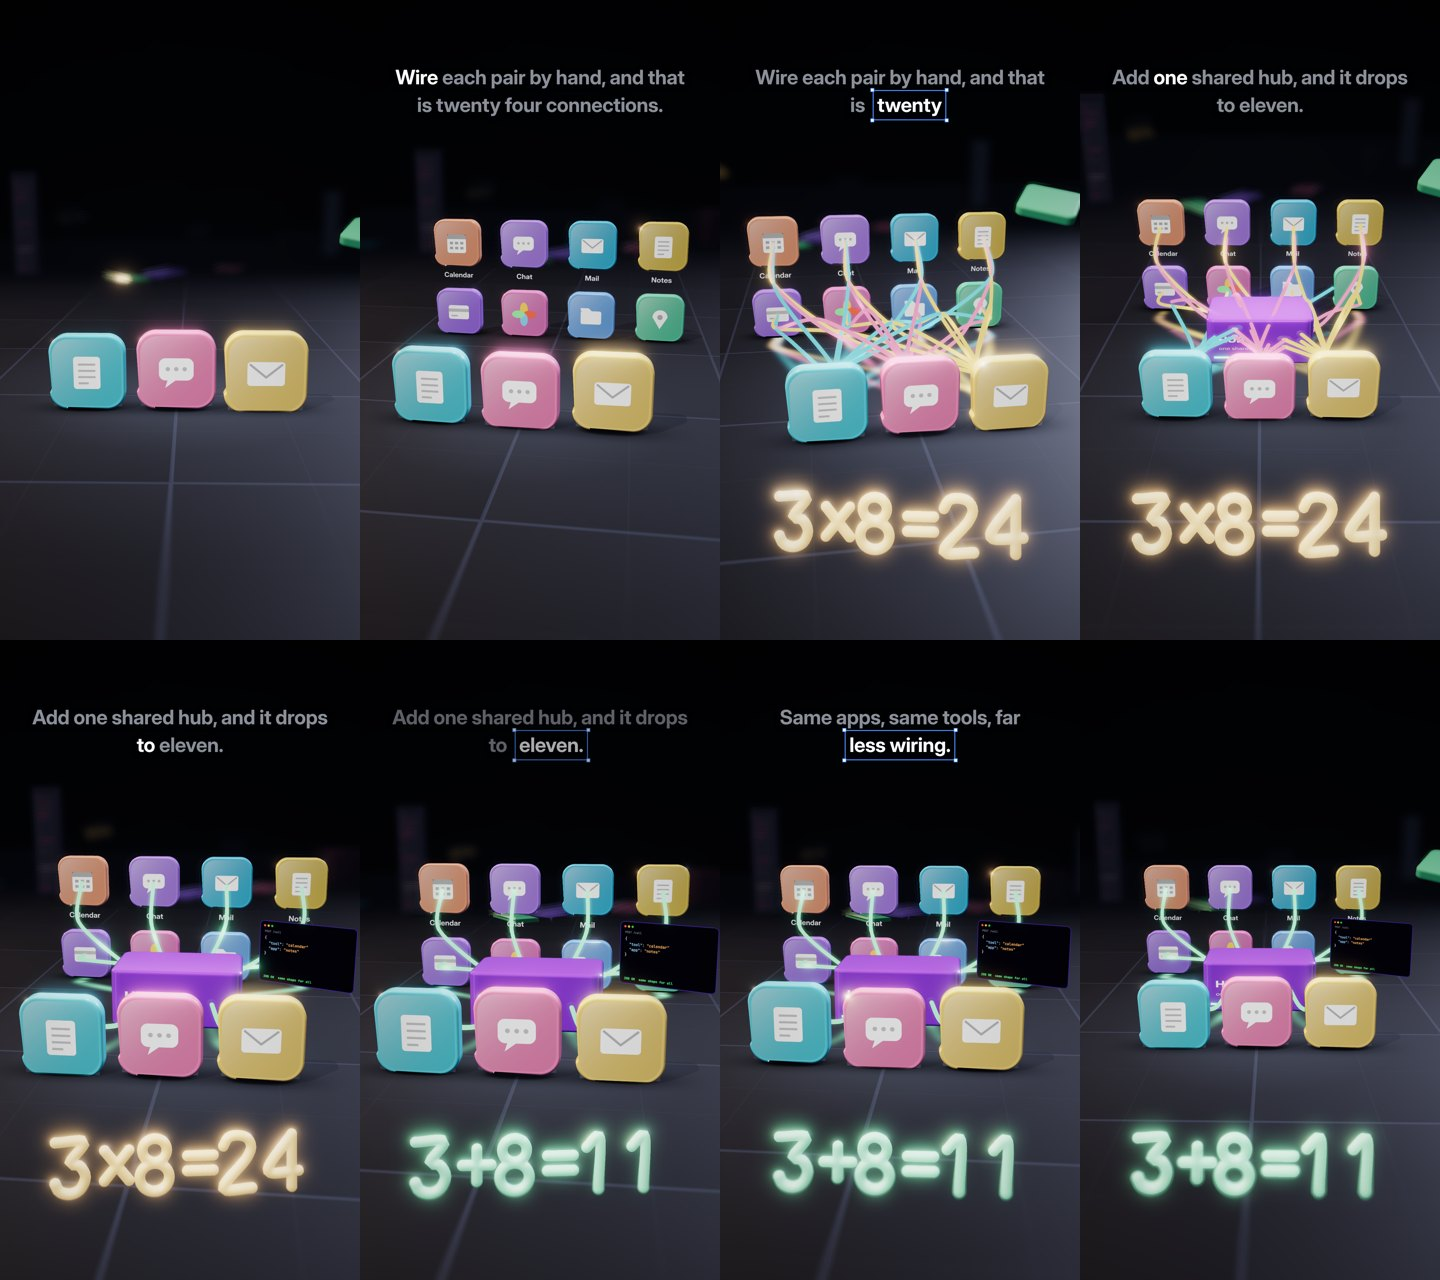
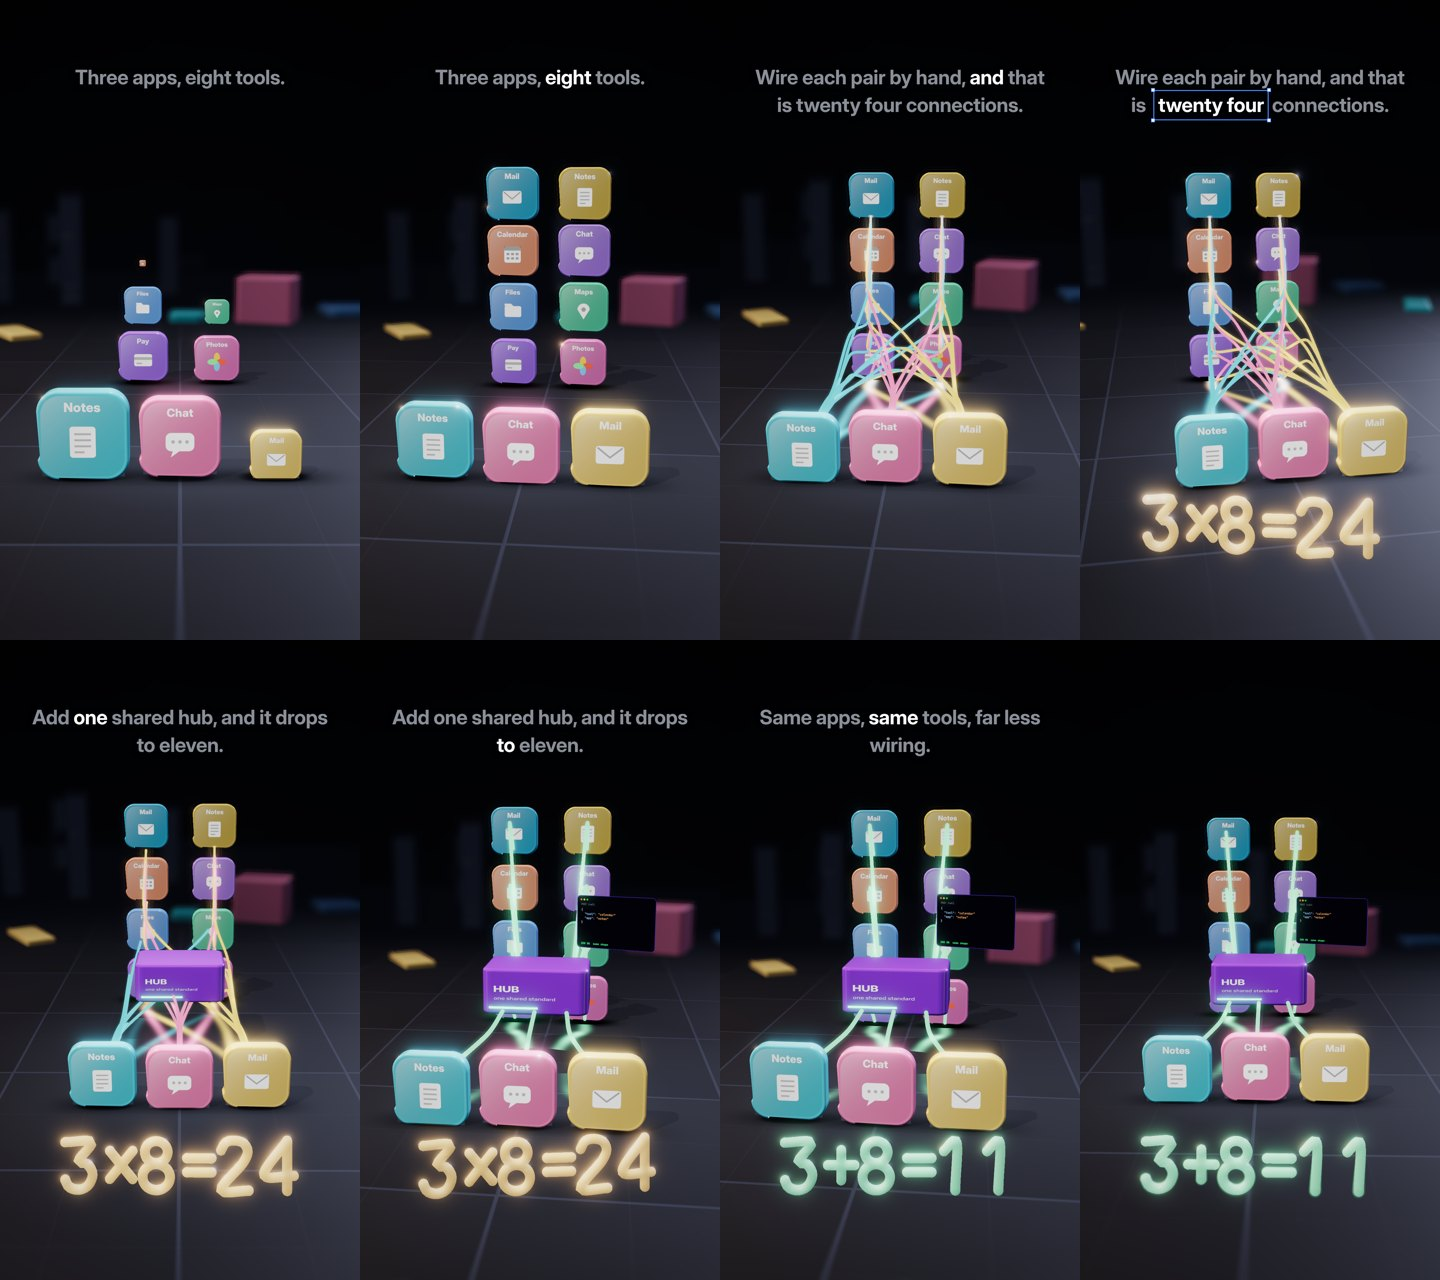
3D kit sample: fuller opening, tall tool wall, readable hub and labels, crisper numbers
Claude-Session: https://claude.ai/code/session_01AYvWRikJYVoUTZmSA7P3bc

diff --git a/techkit/scenes/gold3d-sample.html b/techkit/scenes/gold3d-sample.html
@@ -21,46 +21,47 @@ const eback = (u) => { u = clamp(u); const c = 1.6; return 1 + (c + 1) * Math.po
 const V = (x, y, z) => new THREE.Vector3(x, y, z);
 const S = W3D.stage(THREE, { W, H });
 S.dof.aperture = 2.4; S.dof.focusRange = 7; S.dof.maxR = 20;
-const world = W3D.world(S, { seed: 21, props: 36, radius: [10, 36], heroZone: 13, maxZ: -10, palette: [0x6b3cff, 0x16b8d6, 0xff4f8a, 0xffb62e, 0x2f7bff, 0x22c55e] });
+const world = W3D.world(S, { seed: 21, props: 36, radius: [14, 40], heroZone: 17, maxZ: -14, palette: [0x6b3cff, 0x16b8d6, 0xff4f8a, 0xffb62e, 0x2f7bff, 0x22c55e] });
 const L = W3D.lib;
 
-// ---------- CHANGE: the three apps (front row), the eight tools (back wall), the hub ----------
+// ---------- CHANGE: the three apps (front row), the eight tools (a tall wall, 2 x 4: the portrait frame is tall), the hub (floating above the apps so it is never hidden) ----------
 const APPS = [{ n: 'Notes', c: 0x16b8d6, g: 'notes' }, { n: 'Chat', c: 0xff4f8a, g: 'chat' }, { n: 'Mail', c: 0xffb62e, g: 'mail' }];
 const TOOLS = [['Pay', 0x6b3cff, 'pay'], ['Photos', 0xe0449a, 'photos'], ['Files', 0x2f7bff, 'files'], ['Maps', 0x1fb86a, 'maps'], ['Calendar', 0xff6a3c, 'calendar'], ['Chat', 0x7a4cff, 'chat'], ['Mail', 0x1294d6, 'mail'], ['Notes', 0xd9a21b, 'notes']];
-const apps = APPS.map((a, i) => { const g = L.appTile(THREE, { size: 1.8, color: a.c, glyph: L.appGlyphs[a.g], name: a.n }); g.position.set((i - 1) * 2.1, 0, 1); S.scene.add(g); return g; });
-const tools = TOOLS.map((t, i) => { const g = L.appTile(THREE, { size: 1.6, color: t[1], glyph: L.appGlyphs[t[2]], name: t[0] }); g.position.set((i % 4 - 1.5) * 2.3, Math.floor(i / 4) * 2.4, -6.5); S.scene.add(g); return g; });
-const hub = L.productBlock(THREE, { w: 3.4, d: 2.2, h: 1.5, color: 0x4a14c8, name: 'HUB', sub: 'one shared standard', led: true }); hub.position.set(0, 0, -3); S.scene.add(hub);
-const card = L.codeCard(THREE, { w: 2.4, h: 1.55, title: 'POST /call', fs: 40, lines: [[['{', '#c7c9d1']], [['  "tool"', '#9ad1ff'], [': ', '#c7c9d1'], ['"calendar"', '#ffb86b']], [['  "app"', '#9ad1ff'], [': ', '#c7c9d1'], ['"notes"', '#ffb86b']], [['}', '#c7c9d1']]], footer: '200 OK  same shape for all' }); S.scene.add(card);
+const AX = (i) => (i - 1) * 2.05, TX = (j) => (j % 2 - .5) * 2.5, TY = (j) => .1 + Math.floor(j / 2) * 1.95, WALL_Z = -6.5, HUB_P = V(0, 1.7, -2.4);
+const apps = APPS.map((a, i) => { const g = L.appTile(THREE, { size: 1.8, color: a.c, glyph: L.appGlyphs[a.g], name: a.n, label: 'inside' }); g.position.set(AX(i), 0, 2); S.scene.add(g); return g; });
+const tools = TOOLS.map((t, i) => { const g = L.appTile(THREE, { size: 1.6, color: t[1], glyph: L.appGlyphs[t[2]], name: t[0], label: 'inside' }); g.position.set(TX(i), TY(i), WALL_Z); S.scene.add(g); return g; });
+const hub = L.productBlock(THREE, { w: 3.0, d: 2.0, h: 1.3, color: 0x4a14c8, name: 'HUB', sub: 'one shared standard', led: true }); hub.position.copy(HUB_P); S.scene.add(hub);
+const card = L.codeCard(THREE, { w: 2.2, h: 1.45, title: 'POST /call', fs: 38, lines: [[['{', '#c7c9d1']], [['  "tool"', '#9ad1ff'], [': ', '#c7c9d1'], ['"calendar"', '#ffb86b']], [['  "app"', '#9ad1ff'], [': ', '#c7c9d1'], ['"notes"', '#ffb86b']], [['}', '#c7c9d1']]], footer: '200 OK  same shape' }); S.scene.add(card);
 
-// ---------- cables: 24 separate tubes, one colour per app; then 3 + 8 through the hub ----------
+// ---------- cables: 24 separate tubes, one colour per app; then 3 + 8 through the hub (they end on the tile's bottom edge, so no label is ever covered) ----------
 const tubes = [], hubTubes = [];
-APPS.forEach((a, i) => TOOLS.forEach((t, j) => { const ax = (i - 1) * 2.1, tx = (j % 4 - 1.5) * 2.3, ty = Math.floor(j / 4) * 2.4 + .8, lift = .5 + .22 * ((i * 3 + j) % 5);
-  const pts = [[ax, .9, .6], [ax * .9, .3 + lift * .5, -1], [lerp(ax, tx, .6), .3 + lift, -3.4], [tx, ty * .6 + .2, -5.2], [tx, ty, -6.25]];
-  tubes.push({ c: W3D.cable(S, pts, { color: a.c, radius: .055, glow: 1.5, segments: 90, light: 0, haloSize: 2.6, halo: .2, floorGlow: .8, floorStrength: .5, pulse: { speed: .3 + .02 * j, width: .05 } }), ph: (i * 8 + j) * .137, k: i * 8 + j }); }));
-APPS.forEach((a, i) => { const ax = (i - 1) * 2.1; hubTubes.push({ c: W3D.cable(S, [[ax, .9, .6], [ax * .6, .45, -.8], [(i - 1) * .9, .7, -2.05]], { color: 0x42ff8c, radius: .06, glow: 1.6, halo: .22, haloSize: 2.6, segments: 70, light: 0, floorGlow: .9, floorStrength: .55, pulse: { speed: .5, width: .06 } }), ph: i * .3, k: i }); });
-TOOLS.forEach((t, j) => { const tx = (j % 4 - 1.5) * 2.3, ty = Math.floor(j / 4) * 2.4 + .8; hubTubes.push({ c: W3D.cable(S, [[(j % 4 - 1.5) * .6, .9, -3.9], [(j % 4 - 1.5) * 1.2, .9, -4.8], [tx, ty * .5 + .4, -5.7], [tx, ty, -6.25]], { color: 0x42ff8c, radius: .06, glow: 1.6, halo: .22, haloSize: 2.6, segments: 70, light: 0, floorGlow: .9, floorStrength: .55, pulse: { speed: .5, width: .06 } }), ph: j * .11, k: 3 + j }); });
+APPS.forEach((a, i) => TOOLS.forEach((t, j) => { const lift = .4 + .2 * ((i * 3 + j) % 5), tx = TX(j), ty = TY(j);
+  const pts = [[AX(i), .9, 1.5], [AX(i) * .85, .9 + lift * .5, -.6], [lerp(AX(i), tx, .55), .7 + lift + ty * .15, -3.2], [tx, ty * .55 + .3, -5.2], [tx, ty + .1, -WALL_Z * 0 + WALL_Z + .3]];
+  tubes.push({ c: W3D.cable(S, pts, { color: a.c, radius: .045, glow: 1.5, segments: 90, light: 0, haloSize: 2.6, halo: .2, floorGlow: .8, floorStrength: .5, pulse: { speed: .3 + .02 * j, width: .05 } }), ph: (i * 8 + j) * .137, k: i * 8 + j }); }));
+APPS.forEach((a, i) => { hubTubes.push({ c: W3D.cable(S, [[AX(i), .9, 1.5], [AX(i) * .55, 1.5, -.1], [(i - 1) * .9, HUB_P.y + .1, HUB_P.z + 1.0]], { color: 0x42ff8c, radius: .06, glow: 1.6, halo: .22, haloSize: 2.6, segments: 70, light: 0, floorGlow: .9, floorStrength: .55, pulse: { speed: .5, width: .06 } }), ph: i * .3, k: i }); });
+TOOLS.forEach((t, j) => { const tx = TX(j), ty = TY(j); hubTubes.push({ c: W3D.cable(S, [[(j % 2 - .5) * 1.0, HUB_P.y + .1, HUB_P.z - 1.0], [(j % 2 - .5) * 1.6, HUB_P.y - .2, -4.6], [tx, ty + .9, WALL_Z + 1.1], [tx, ty + .1, WALL_Z + .3]], { color: 0x42ff8c, radius: .06, glow: 1.6, halo: .22, haloSize: 2.6, segments: 70, light: 0, floorGlow: .9, floorStrength: .55, pulse: { speed: .5, width: .06 } }), ph: j * .11, k: 3 + j }); });
 
 // ---------- numbers as 3D figures ----------
-const fig24 = L.figure(THREE, '3x8=24', { height: .72, color: 0xffa23a, radius: .1 }), fig11 = L.figure(THREE, '3+8=11', { height: .72, color: 0x42ff8c, radius: .1 });
+const fig24 = L.figure(THREE, '3x8=24', { height: .72, color: 0xffa23a, radius: .1, emissive: .12 }), fig11 = L.figure(THREE, '3+8=11', { height: .72, color: 0x42ff8c, radius: .1, emissive: .12 });
 [fig24, fig11].forEach((f) => { S.scene.add(f); f.visible = false; f.traverse((m) => { if (m.isMesh) m.castShadow = false; }); });
 
 // ---------- shadows ----------
-const shadows = [...apps.map((m) => W3D.contactShadow(S, m, { w: 2.4, d: .6, strength: .9 })), ...tools.map((m) => W3D.contactShadow(S, m, { w: 1.8, d: .5, strength: .8 })), W3D.contactShadow(S, hub, { w: 3.2, d: 2.2 })];
+const shadows = [...apps.map((m) => W3D.contactShadow(S, m, { w: 2.4, d: .6, strength: .9 })), ...tools.map((m) => W3D.contactShadow(S, m, { w: 1.8, d: .5, strength: .8 })), W3D.contactShadow(S, hub, { w: 3.4, d: 2.2, rest: 0, strength: .7 })];
 
 // ---------- captions from the timeline ----------
 const KEYS = [[3, 3], [8, 9], [8, 8], [5, 6]];
-const cap = W3D.captions({ y: 190, size: 60, lines: TL.scenes.map((s, i) => ({ t0: s.start, t1: s.end, words: s.words.map((w) => w.w), times: s.words.map((w) => w.t0), keyIdx: KEYS[i] })) });
+const cap = W3D.captions({ y: 190, size: 60, lines: TL.scenes.map((s, i) => ({ t0: i === 0 ? -.2 : s.start, t1: s.end, words: s.words.map((w) => w.w), times: s.words.map((w) => w.t0), keyIdx: KEYS[i] })) });
 const CAPBAND = [60, 150, 1020, 420];
 
 // ---------- camera: one path through the one world (CHANGE: keys follow the cues) ----------
 const cam = W3D.camPath(S, [
-  { t: 0, pos: [0, 4.8, 15.5], look: [0, 1.3, -3], fov: 54 },
-  { t: C.eight + .2, pos: [1.2, 5.4, 15], look: [0, 1.5, -3.2], fov: 54 },
-  { t: C.wire + .8, pos: [2.6, 6.4, 14], look: [-.2, 1.4, -3.2], fov: 54 },
-  { t: C.twenty + .6, pos: [-2.6, 7, 14], look: [.2, 1.4, -3.2], fov: 54 },
-  { t: C.add + .4, pos: [0, 8.6, 15], look: [0, 1.0, -3], fov: 54 },
-  { t: C.eleven + .4, pos: [1.8, 5, 13.2], look: [0, 1.6, -3.2], fov: 54 },
-  { t: TOTAL, pos: [0, 6.2, 17], look: [0, 1.3, -2.8], fov: 54 },
+  { t: 0, pos: [0, 5.4, 15.5], look: [0, 2.7, -3], fov: 52 },
+  { t: C.eight + .2, pos: [1.6, 6.2, 16.5], look: [0, 3.0, -3], fov: 52 },
+  { t: C.wire + .8, pos: [3.4, 7.2, 17], look: [0, 3.0, -3], fov: 52 },
+  { t: C.twenty + .6, pos: [-3.4, 7.6, 17], look: [0, 3.0, -3], fov: 52 },
+  { t: C.add + .4, pos: [0, 8.8, 18], look: [0, 2.8, -2.5], fov: 52 },
+  { t: C.eleven + .4, pos: [2.2, 6.4, 16], look: [0, 3.0, -3], fov: 52 },
+  { t: TOTAL, pos: [0, 7, 19], look: [0, 2.8, -3], fov: 52 },
 ]);
 
 const focus = V(0, 1.6, -3); S.focus = focus;
@@ -68,17 +69,17 @@ const heroes = [...apps, ...tools, hub];
 function frame(t) {
   const p = cam(t); focus.copy(p.look);
   apps.forEach((m, i) => { const a = eback(prog(t, -.35 + i * .12, .3 + i * .12)); m.scale.setScalar(Math.max(.001, a)); m.position.y = Math.sin(t * 1.3 + i * 2) * .06; m.visible = a > .005; });
-  tools.forEach((m, i) => { const a = eback(prog(t, C.eight + i * .08 - .05, C.eight + i * .08 + .45)); m.scale.setScalar(Math.max(.001, a)); m.visible = a > .005; });
+  tools.forEach((m, i) => { const a = eback(prog(t, -.3 + i * .07, .35 + i * .07)), bump = 1 + .14 * Math.exp(-Math.pow((t - C.eight - i * .05) * 5, 2)); m.scale.setScalar(Math.max(.001, a) * bump); m.visible = a > .005; });
   // 24 cables draw on from "wire" (staggered), keep pulsing, retract when the hub arrives
   tubes.forEach((q) => { const dr = ease(prog(t, C.wire + .05 + q.k * .035, C.wire + .65 + q.k * .035)), ret = ease(prog(t, C.add + .05 + q.k * .018, C.add + .7 + q.k * .018)); q.c.reveal(Math.max(0, dr - ret * 1.0) > 0 ? dr * (1 - ret) : 0); q.c.update(t + q.ph, 1); });
   const ha = eback(prog(t, C.add + .25, C.add + .85)); hub.scale.setScalar(Math.max(.001, ha)); hub.visible = ha > .005;
   hubTubes.forEach((q) => { const u = ease(prog(t, C.hub + .1 + q.k * .05, C.hub + .75 + q.k * .05)); q.c.reveal(u); q.c.update(t + q.ph, 1); });
-  const ca = eback(prog(t, C.hub + .5, C.hub + 1.1)); card.visible = ca > .005; card.scale.setScalar(Math.max(.001, ca)); card.position.set(3.2, 1.3, -1.6); card.rotation.y = -.42;
+  const ca = eback(prog(t, C.hub + .5, C.hub + 1.1)); card.visible = ca > .005; card.scale.setScalar(Math.max(.001, ca)); card.position.set(2.2, 3.6, -1.5); card.rotation.y = -.3;
   // number figures: 24 on "twenty", 11 on "eleven"
   const a24 = eback(prog(t, C.twenty - .05, C.twenty + .4)), out24 = 1 - sm(prog(t, C.eleven - .05, C.eleven + .15)), a11 = eback(prog(t, C.eleven - .02, C.eleven + .45));
   fig24.visible = a24 > .005 && out24 > .01; fig24.scale.setScalar(Math.max(.001, a24) * Math.max(.001, out24)); fig11.visible = a11 > .005; fig11.scale.setScalar(Math.max(.001, a11));
   // the figures ride the camera: centred in the lower fifth of the frame, 9 units ahead, always facing it (nothing else is ever there)
-  S.cam.updateMatrixWorld(); const ray = V(0, -.72, .5).unproject(S.cam).sub(S.cam.position).normalize(); [fig24, fig11].forEach((f) => { f.position.copy(S.cam.position).addScaledVector(ray, 9); f.quaternion.copy(S.cam.quaternion); f.rotateY(Math.sin(t * .9) * .1); });
+  S.cam.updateMatrixWorld(); const ray = V(0, -.72, .5).unproject(S.cam).sub(S.cam.position).normalize(); [fig24, fig11].forEach((f) => { f.position.copy(S.cam.position).addScaledVector(ray, 10); f.quaternion.copy(S.cam.quaternion); f.rotateY(Math.sin(t * .9) * .1); });
   shadows.forEach((s) => s.update());
 }
 window.render = (t) => { t = clamp(t, 0, TOTAL); frame(t); S.draw(t); cap(t); };

diff --git a/techkit/lib3d.js b/techkit/lib3d.js
@@ -29,9 +29,12 @@
   function appTile(THREE, o = {}) {
     const s = o.size ?? 1.7, g = new THREE.Group(), col = o.color ?? 0x6b3cff, hex = '#' + new THREE.Color(col).getHexString();
     g.add(new THREE.Mesh(standingSlab(THREE, s, .34, s * .24), gloss(THREE, col, { roughness: .24 })));
-    const map = o.logo ? null : tex(THREE, 256, 256, (c, w, h) => { const gr = c.createLinearGradient(0, 0, w, h); gr.addColorStop(0, 'rgba(255,255,255,.22)'); gr.addColorStop(1, 'rgba(0,0,0,.18)'); c.fillStyle = gr; rr(c, 0, 0, w, h, 60); c.fill(); c.translate(w / 2, h / 2); (o.glyph || appGlyphs.notes)(c, hex); });
+    const inside = o.label === 'inside' && o.name;   // the name sits inside the tile at its top, so nothing in front of the tile can cover it
+    const map = o.logo ? null : tex(THREE, 256, 256, (c, w, h) => { const gr = c.createLinearGradient(0, 0, w, h); gr.addColorStop(0, 'rgba(255,255,255,.22)'); gr.addColorStop(1, 'rgba(0,0,0,.18)'); c.fillStyle = gr; rr(c, 0, 0, w, h, 60); c.fill();
+      c.save(); c.translate(w / 2, h / 2 + (inside ? 18 : 0)); if (inside) c.scale(.8, .8); (o.glyph || appGlyphs.notes)(c, hex); c.restore();
+      if (inside) { c.fillStyle = 'rgba(255,255,255,.95)'; c.font = `800 40px ${SANS}`; c.textAlign = 'center'; c.textBaseline = 'middle'; c.fillText(o.name, w / 2, 38); } });
     const f = face(THREE, s * .9, s * .9, o.logo || map); f.position.set(0, s / 2, .175); g.add(f); g.userData.logoSlot = f;   // the logo slot: swap f.material.map for a licensed logo texture
-    if (o.name) { const lab = face(THREE, s * 1.4, s * .34, tex(THREE, 512, 128, (c, w, h) => { c.fillStyle = '#e9ecf4'; c.font = `700 56px ${SANS}`; c.textAlign = 'center'; c.textBaseline = 'middle'; c.fillText(o.name, w / 2, h / 2); })); lab.position.set(0, -s * .2, .02); lab.userData.label = true; g.add(lab); }
+    if (o.name && !inside) { const lab = face(THREE, s * 1.4, s * .34, tex(THREE, 512, 128, (c, w, h) => { c.fillStyle = '#e9ecf4'; c.font = `700 56px ${SANS}`; c.textAlign = 'center'; c.textBaseline = 'middle'; c.fillText(o.name, w / 2, h / 2); })); lab.position.set(0, -s * .2, .02); lab.userData.label = true; g.add(lab); }
     return finish(THREE, g);
   }
   // a thin standing rounded slab: footprint s x s in x/y, thickness d in z, base at y = 0 (extruded rounded rectangle)

diff --git a/design/3d-kit-phase2.md b/design/3d-kit-phase2.md
@@ -8,3 +8,5 @@ Owner chat's notes, and what changed:
 3. From the style test: colourful app tiles with a logo slot, numbers as big 3D figures ("3 x 8 = 24" then "3 + 8 = 11"), cables that multiply then collapse into one hub. Faults avoided: 24 separate tubes (one colour per app, thin, not blown out), nothing cut at the frame edges by the cast, captions clear of objects (the layout check reports 0), the figures sit in their own screen area under the cast.
 4. Library, camera path, starter (`node scripts/starter.mjs tech3d <slug>`), README, one 20 s sample, Output QA: topic key `"look": "3d"` switches LOOK to the gold.json "tech3d" entry and lifts the COLOUR saturated-fill limit to 50 % (the old numbers measure the grey look).
 Known limits: the sample's pace follows the voice cues (about 18 s with the real voice); fps 60 with the join's frame blend is the only motion blur; the hub label is partly hidden behind the front apps at low camera angles.
+
+Owner chat review of the first stills (26 Nov), fixed before the render: fuller opening with the caption from frame 0 and tiles already popping; the eight tools are a tall 2 x 4 wall (the portrait frame is tall) with the name inside each tile and the cables ending on the tile's bottom edge, so no label is covered; the hub floats above the front apps and is smaller, so it reads in the second half; background props kept far from the frame edge and the code card pulled in; the number figures are less bloomed (emissive .12) and 10 units from the camera.

diff --git a/design/handoff-log.md b/design/handoff-log.md
@@ -773,3 +773,4 @@ Format (at most 6 lines):
 - Done: techkit/lib3d.js (appTile with logo slot, phone, laptop, chip, rack, productBlock, codeCard, dialog, 3D number figures, camPath), world3d.js fixes (neutral ground, DOF sparkle clamp, caption padding, cable reveal), gold3d-sample scene + topic (never posted), starter `tech3d`, techkit/README.md, design/3d-kit-phase2.md, design/gold.md candidate section, Output QA key `"look": "3d"` (gold.json "tech3d" entry to be filled from the real MP4).
 - Left: render the sample on GitHub (Tech reel, preview), measure its LOOK numbers into gold.json "tech3d", critic session for READY.
 - For the other account: nothing new.
+- Update (same session): the owner chat's review of the first stills is folded in (fuller opening, tall tool wall with labels inside the tiles, hub raised, nothing cut at the edges, crisper numbers); kit-phase2.jpg replaced.
